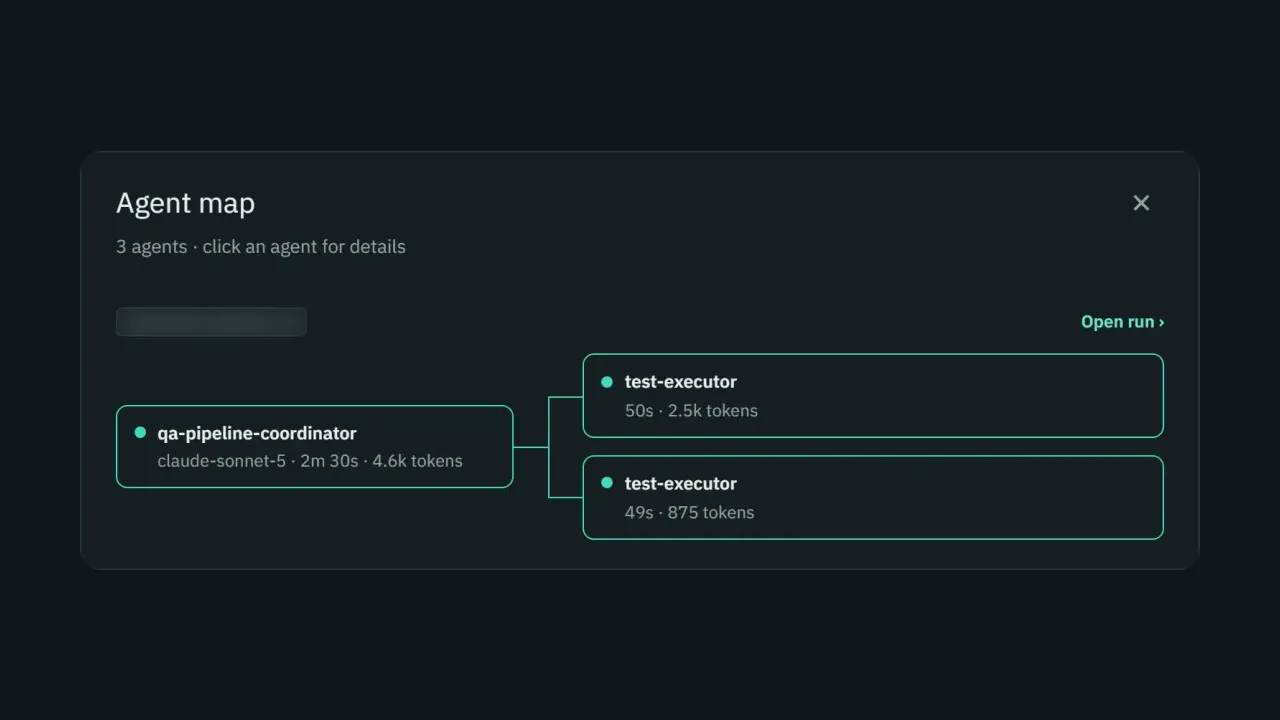
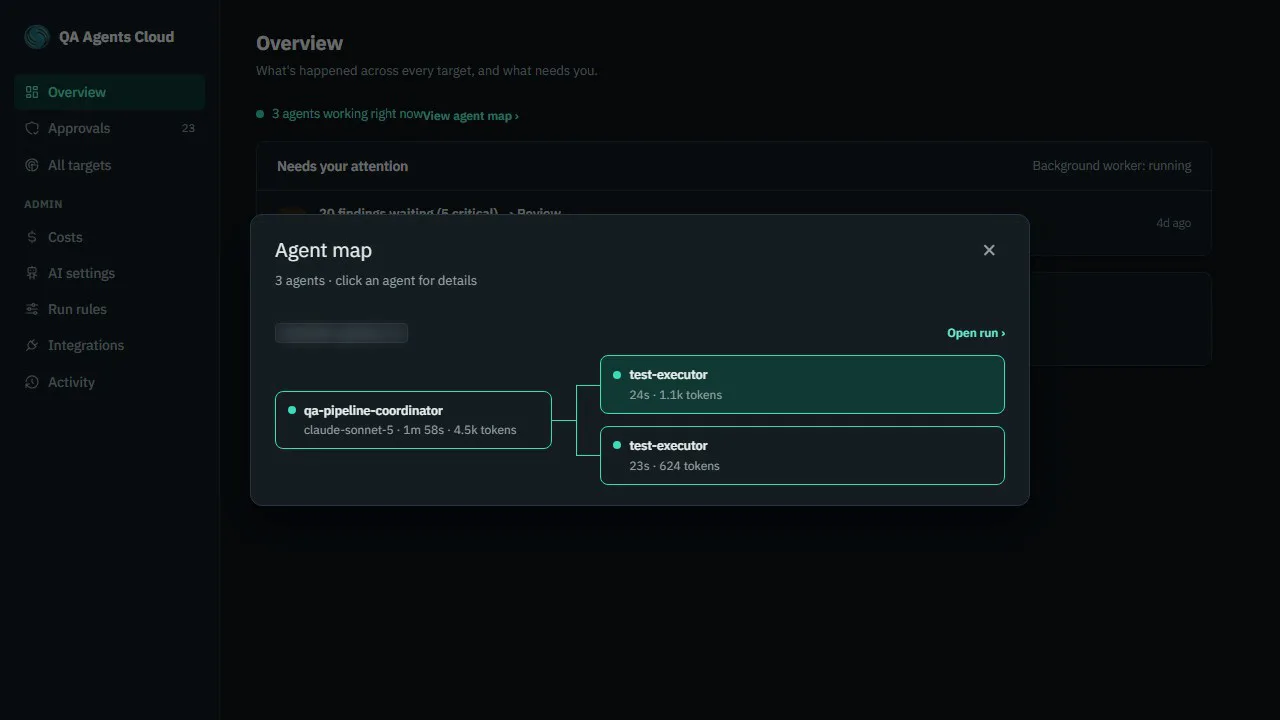
See it live: real video ID, final poster, 'under two minutes'

diff --git a/index.html b/index.html
@@ -446,15 +446,12 @@
     <h2 class="h2 reveal">AI agents test your software. You decide what gets filed.</h2>
     <p class="lede reveal" style="margin-top: 14px;">QA Agents Cloud is the testing product I built and run myself. A small team of AI agents plans, writes and runs tests against your web application, and a person decides which of the bugs it finds get filed; you choose how strict that is. Every screenshot and the video below come from a run on a sample application, not from a customer.</p>
 
-    <!-- TODO(before publishing): replace PLACEHOLDER_YOUTUBE_ID (2 places below) with the unlisted video ID and replace
-         assets/qa-cloud/qa-video-poster.webp (temporary, made from the agent map) with demo-poster.png as WebP, about 1280x720, under 150 KB.
-         scripts/check-no-placeholder.mjs fails while the placeholder is still here. -->
     <div class="qa-card qa-video" id="see-it-live">
       <h3>See it live</h3>
-      <p>Watch a run, about 90 seconds, from a run on a sample application.</p>
-      <div class="qa-frame qa-frame--video" data-youtube-id="PLACEHOLDER_YOUTUBE_ID" data-video-title="QA Agents Cloud: a run on a sample application, about 90 seconds">
-        <a class="qa-video__stage" href="https://www.youtube.com/watch?v=PLACEHOLDER_YOUTUBE_ID" target="_blank" rel="noopener" aria-label="Play the video: a run on a sample application, about 90 seconds (opens YouTube)">
-          <img src="assets/qa-cloud/qa-video-poster.webp" width="1280" height="720" loading="lazy" alt="Video poster: the agent map of a run on a sample application, a coordinator agent connected to its test agents.">
+      <p>Watch a run, in under two minutes, from a run on a sample application.</p>
+      <div class="qa-frame qa-frame--video" data-youtube-id="lEEUnp4zzEo" data-video-title="QA Agents Cloud: a run on a sample application, under two minutes">
+        <a class="qa-video__stage" href="https://www.youtube.com/watch?v=lEEUnp4zzEo" target="_blank" rel="noopener" aria-label="Play the video: a run on a sample application, under two minutes (opens YouTube)">
+          <img src="assets/qa-cloud/qa-video-poster.webp" width="1280" height="720" loading="lazy" alt="Video poster: the agent map of a run on a sample application, one coordinator agent connected to two tester agents.">
           <span class="qa-video__play" aria-hidden="true"><svg viewBox="0 0 24 24" width="22" height="22" focusable="false"><path d="M8 5v14l11-7z" fill="currentColor"/></svg>Play</span>
         </a>
       </div>
